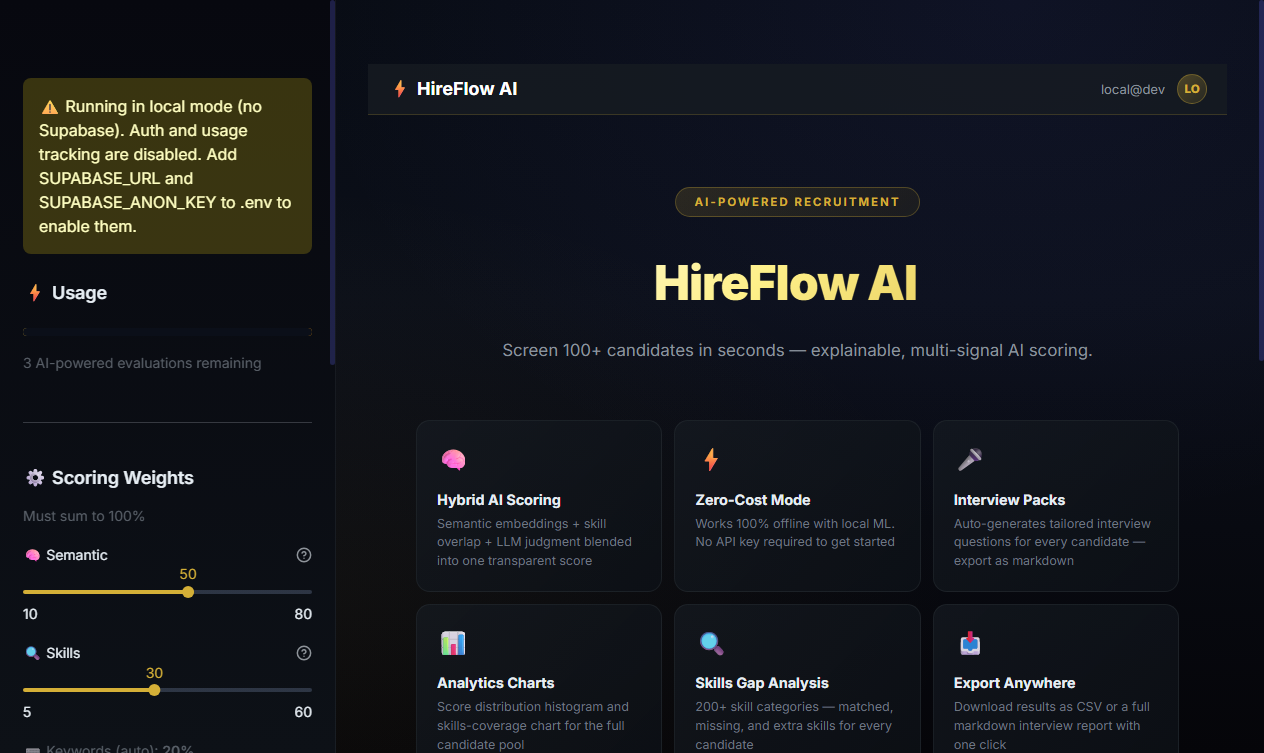
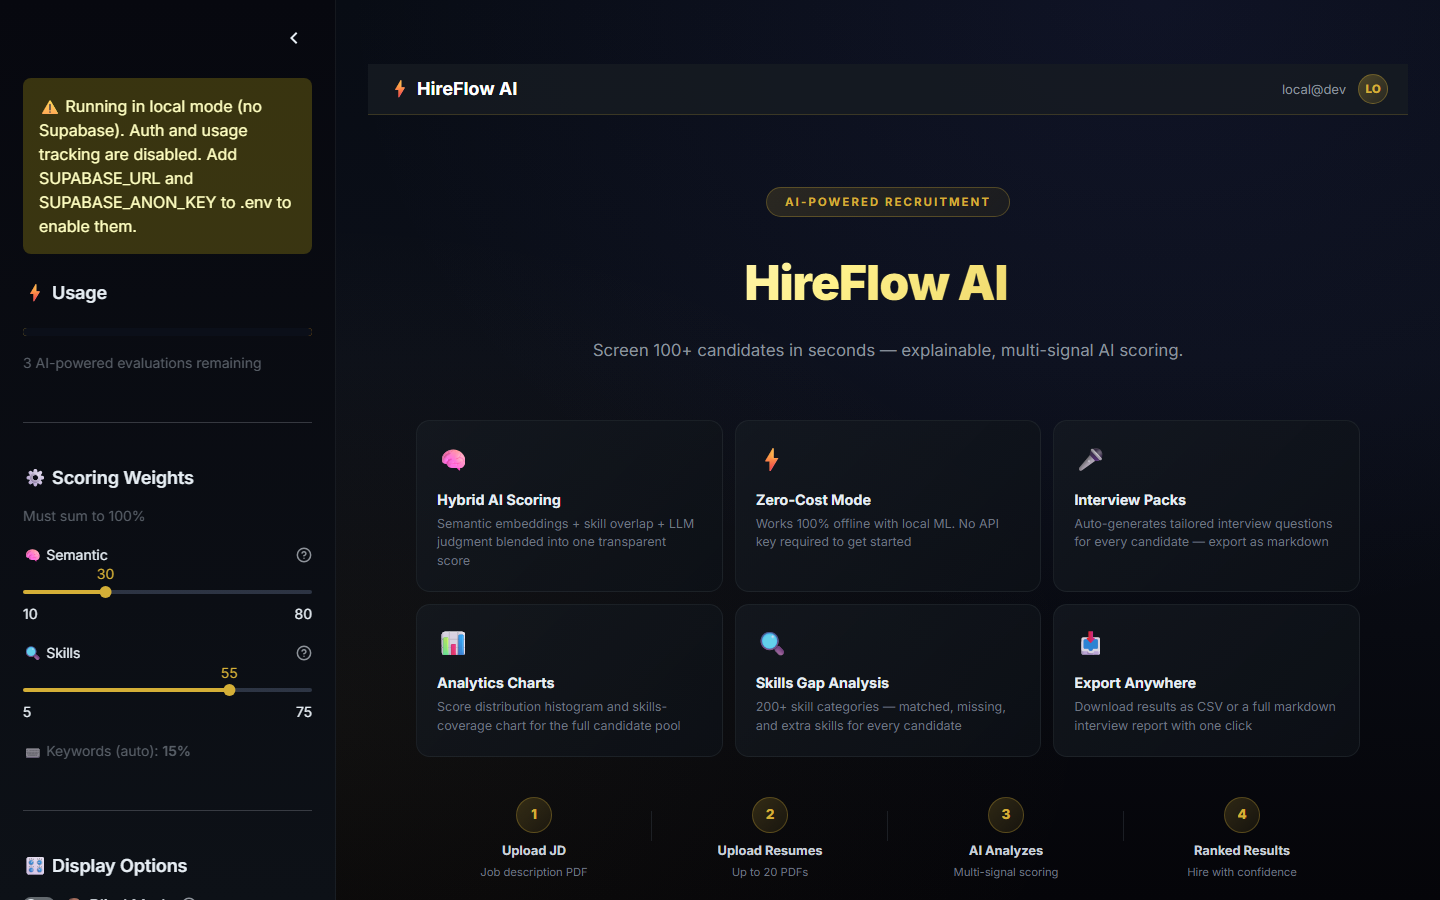
docs: update README with v4.2 screenshots, fallback docs, and updated weights
- Retake all 5 screenshots with Playwright (full content, dark theme, 1440x900)
- New sidebar shot clearly shows AI Backend panel (NVIDIA connected badge)
- New shot shows Scoring Weights with updated defaults: Semantic 30%, Skills 55%, Keywords 15%
- New shot shows feature grid (hero + feature cards)
- README: add Auto Backend Fallback feature to features table
- README: update Hybrid Score default weights table to match v4.2 (30/55/15)
- README: expand AI Backends section with fallback chain docs, Ollama model selector note
- README: update Architecture table to mention multi-provider routing in explainer.py
- README: expand Configuration table with all supported API keys
- README: add Changelog table tracking v3.x through v4.2
- Add take_screenshots.py for reproducible screenshot captures

diff --git a/take_screenshots.py b/take_screenshots.py
@@ -1,0 +1,120 @@
+"""
+Screenshot capture script for HireFlow AI README.
+Polls until actual app content is visible before capturing.
+"""
+import time
+from playwright.sync_api import sync_playwright
+
+BASE = "http://localhost:8501"
+OUT  = "screenshots"
+VIEWPORT = {"width": 1440, "height": 900}
+
+
+def wait_content(page, timeout=90):
+    """
+    Poll until Streamlit has rendered real content (not just the spinner).
+    We look for the HireFlow title or the sidebar usage text — either means
+    the Python script finished its first run.
+    """
+    deadline = time.time() + timeout
+    while time.time() < deadline:
+        try:
+            # The app title appears in both the hero section and the browser tab
+            page.wait_for_selector(
+                'text="HireFlow AI"',
+                timeout=3000,
+            )
+            # Extra settle: let JS / CSS finish painting
+            time.sleep(2)
+            return True
+        except Exception:
+            time.sleep(1)
+    print("  WARNING: timed out waiting for content, shooting anyway")
+    return False
+
+
+def take(page, name: str, full=False, clip=None):
+    path = f"{OUT}/{name}"
+    kwargs = {"full_page": full}
+    if clip:
+        kwargs["clip"] = clip
+    page.screenshot(path=path, **kwargs)
+    print(f"  saved {path}")
+
+
+def sidebar_width(page) -> int:
+    """Return the pixel width of the sidebar element."""
+    try:
+        w = page.evaluate("""
+            () => {
+                const sb = document.querySelector('[data-testid="stSidebar"]');
+                return sb ? sb.getBoundingClientRect().width : 240;
+            }
+        """)
+        return int(w)
+    except Exception:
+        return 240
+
+
+def run():
+    with sync_playwright() as p:
+        browser = p.chromium.launch(headless=True)
+        ctx = browser.new_context(viewport=VIEWPORT)
+        page = ctx.new_page()
+
+        # ── Initial load ──────────────────────────────────────────────────────
+        print("Loading app and waiting for content…")
+        page.goto(BASE, wait_until="domcontentloaded", timeout=60000)
+        wait_content(page, timeout=120)
+
+        sw = sidebar_width(page)
+        print(f"  sidebar width detected: {sw}px")
+
+        # ── 01 Full dashboard hero ────────────────────────────────────────────
+        print("01 hero / landing")
+        page.evaluate("window.scrollTo(0, 0)")
+        time.sleep(0.3)
+        take(page, "01_login.png")
+
+        # ── 02 Sidebar — full strip (all sections) ────────────────────────────
+        # Use a tall page screenshot cropped to sidebar width so nothing is cut off
+        print("02 full sidebar strip")
+        take(page, "02_dashboard.png",
+             clip={"x": 0, "y": 0, "width": sw + 10, "height": 900})
+
+        # ── 03 Main content — feature grid ────────────────────────────────────
+        print("03 feature cards (main area)")
+        take(page, "03_upload_panel.png",
+             clip={"x": sw + 10, "y": 0, "width": VIEWPORT["width"] - sw - 10, "height": 900})
+
+        # ── 04 Sidebar scrolled to show AI Backend + History sections ─────────
+        print("04 sidebar — AI backend panel")
+        # Scroll using keyboard: focus sidebar then Page Down
+        try:
+            sb_handle = page.locator('[data-testid="stSidebar"]')
+            sb_handle.hover()
+            page.mouse.wheel(0, 600)   # wheel-scroll sidebar
+            time.sleep(1.2)
+        except Exception:
+            pass
+        take(page, "04_features.png",
+             clip={"x": 0, "y": 0, "width": sw + 10, "height": 900})
+
+        # ── 05 Full-page overview ─────────────────────────────────────────────
+        print("05 full page")
+        page.evaluate("window.scrollTo(0, 0)")
+        try:
+            sb_handle = page.locator('[data-testid="stSidebar"]')
+            sb_handle.hover()
+            page.mouse.wheel(0, -9999)
+            time.sleep(0.5)
+        except Exception:
+            pass
+        take(page, "05_features_bottom.png", full=True)
+
+        browser.close()
+    print("All done.")
+
+
+if __name__ == "__main__":
+    run()

diff --git a/README.md b/README.md
@@ -2,7 +2,7 @@
 
 > AI-powered resume screener for recruiters — screen 100+ candidates in seconds with explainable, multi-signal scoring.
 
-![HireFlow AI Login](screenshots/01_login.png)
+![HireFlow AI Dashboard](screenshots/01_login.png)
 
 ---
 
@@ -16,8 +16,14 @@ Works fully offline (Zero-Cost Mode) with a local ML model and no API key requir
 
 ## Screenshots
 
-### Dashboard
-![HireFlow AI Dashboard](screenshots/02_dashboard.png)
+### Sidebar — Scoring Weights & AI Backend Status
+![Sidebar — AI Backend](screenshots/04_features.png)
+
+### Feature Grid
+![HireFlow AI Feature Grid](screenshots/03_upload_panel.png)
+
+### Sidebar — Scoring Controls
+![Scoring Weights](screenshots/02_dashboard.png)
 
 ---
 
@@ -26,6 +32,7 @@ Works fully offline (Zero-Cost Mode) with a local ML model and no API key requir
 | Feature | Description |
 |---------|-------------|
 | **Hybrid AI Scoring** | Semantic embeddings + skill overlap + LLM judgment blended into one transparent score |
+| **Auto Backend Fallback** | Primary API exhausted? Automatically falls back through configured providers → Ollama local |
 | **Zero-Cost Mode** | Works 100% offline with local ML — no API key needed |
 | **Blind Mode** | Hides candidate names during scoring to reduce unconscious bias |
 | **Interview Packs** | Auto-generates tailored interview questions for each candidate — export as markdown |
@@ -56,9 +63,9 @@ Default weights (tunable in sidebar):
 
 | Signal | Default | What it captures |
 |--------|---------|-----------------|
-| Semantic Similarity | 50% | Conceptual alignment between resume and JD |
-| Skill Overlap | 30% | Keyword/skill checklist coverage |
-| LLM Confidence | 20% | AI judgment on seniority fit, red flags, trajectory |
+| Semantic Similarity | 30% | Conceptual alignment between resume and JD |
+| Skill Overlap | 55% | Keyword/skill checklist coverage |
+| LLM Confidence | 15% | AI judgment on seniority fit, red flags, trajectory |
 
 Weights are adjustable via sliders in the sidebar — must sum to 100%.
 
@@ -84,7 +91,7 @@ streamlit run app.py
 
 The app opens at `http://localhost:8501`.
 
-**No API key?** Leave `OPENAI_API_KEY` blank — the app falls back to Zero-Cost Mode using the local `all-MiniLM-L6-v2` sentence-transformer (~80 MB, downloaded on first run).
+**No API key?** Leave all LLM keys blank — the app falls back to Zero-Cost Mode using the local `all-MiniLM-L6-v2` sentence-transformer (~80 MB, downloaded on first run).
 
 ---
 
@@ -94,7 +101,13 @@ Copy `.env.example` to `.env` and fill in the values you need:
 
 | Variable | Required | Description |
 |----------|----------|-------------|
+| `NVIDIA_API_KEY` | Optional | NVIDIA NIM key — Gemma 4 31B explanations (recommended) |
 | `OPENAI_API_KEY` | Optional | OpenAI key for GPT-4o-mini LLM scoring and explanations |
+| `ANTHROPIC_API_KEY` | Optional | Claude (Haiku) for explanations |
+| `GEMINI_API_KEY` | Optional | Google Gemini 2.0 Flash |
+| `PPLX_API_KEY` | Optional | Perplexity AI |
+| `GROK_API_KEY` | Optional | xAI Grok |
+| `AI_BACKEND` | Optional | Primary backend (`nvidia`, `openai`, `claude`, `gemini`, `ollama` …) |
 | `SUPABASE_URL` | Optional | Supabase project URL — enables auth and session history |
 | `SUPABASE_ANON_KEY` | Optional | Supabase anon key — used for auth and read queries |
 | `SUPABASE_SERVICE_KEY` | Optional | Service-role key — bypasses RLS for server-side DB writes |
@@ -105,15 +118,31 @@ Without Supabase keys the app runs in local mode — auth and history are disabl
 
 ## AI Backends
 
-### OpenAI (recommended for best explanations)
+HireFlow AI supports multiple LLM providers and automatically falls back when one is exhausted.
+
+### Automatic Fallback (v4.2+)
+
+```
+Primary (AI_BACKEND) → other configured providers → Ollama (local)
+```
+
+- **Credit exhaustion** (401/402/403/429): backend is marked as dead for the session; next provider is tried automatically. A toast notification appears in the sidebar when a switch happens.
+- **Content filter** (400/422): falls back to the next backend immediately; Ollama never content-filters.
+- **Retry**: use the *Retry API connections* button in the sidebar after adding or refreshing an API key.
+
+### NVIDIA NIM (recommended)
+- Set `NVIDIA_API_KEY` in `.env` and `AI_BACKEND=nvidia`
+- Uses Gemma 4 31B for premium explanations and DeepSeek V3.2 for skills extraction
+
+### OpenAI
 - Set `OPENAI_API_KEY` in `.env`
 - Uses `gpt-4o-mini` — fast and cost-effective
-- Generates rich plain-English explanations and per-candidate LLM scores
 
 ### Ollama (free, local, private)
 - Install: [ollama.com](https://ollama.com)
 - Run: `ollama serve` then `ollama pull mistral`
-- Select **Ollama** in the sidebar AI backend dropdown
+- Set `AI_BACKEND=ollama` or let the app fall back to it automatically
+- Select the active Ollama model from the sidebar dropdown
 
 ### Zero-Cost Mode (no API key)
 - Uses only the local sentence-transformer for semantic scoring
@@ -130,7 +159,7 @@ Without Supabase keys the app runs in local mode — auth and history are disabl
 | `parser.py` | PDF → clean text via pdfplumber |
 | `embedder.py` | Text → 384-dim vectors via sentence-transformers |
 | `scorer.py` | Hybrid scoring engine — embedding + skills + LLM blend |
-| `explainer.py` | LLM explanations, skill extraction, AI scoring |
+| `explainer.py` | LLM explanations, skill extraction, multi-provider routing with auto-fallback |
 | `skills_local.py` | Rule-based skill extraction, experience/education detection, resume quality scoring |
 | `interview_gen.py` | Interview question generation per candidate |
 | `database.py` | Supabase persistence — sessions, results, history |
@@ -158,7 +187,7 @@ Row Level Security (RLS) is enforced on all tables. The service-role key (`SUPAB
 - **pdfplumber** — PDF text extraction
 - **sentence-transformers** (`all-MiniLM-L6-v2`) — local semantic embeddings
 - **scikit-learn** — cosine similarity
-- **OpenAI / Ollama** — LLM explanations and scoring
+- **NVIDIA NIM / OpenAI / Claude / Gemini / Ollama** — LLM explanations with auto-fallback
 - **Supabase** — auth, PostgreSQL database, RLS
 - **Plotly** — analytics charts and radar visualizations
 - **pandas** — result table and CSV export
@@ -174,6 +203,17 @@ streamlit run app.py
 # Generate sample PDFs for testing
 python generate_pdfs.py
 ```
+
+---
+
+## Changelog
+
+| Version | Highlights |
+|---------|-----------|
+| v4.2 | Automatic AI backend fallback chain, Ollama model selector in sidebar, `sanitize_explanation` for DB cleanup, updated default weights (Skills 55%) |
+| v4.1 | Confidence levels, scoring rebalance, API hardening, security skills |
+| v4.0 | Supabase auth, service-role writes, advanced features |
+| v3.x | Pipeline board, blind mode, weight tuner, JD scan, radar charts |
 
 ---
 
